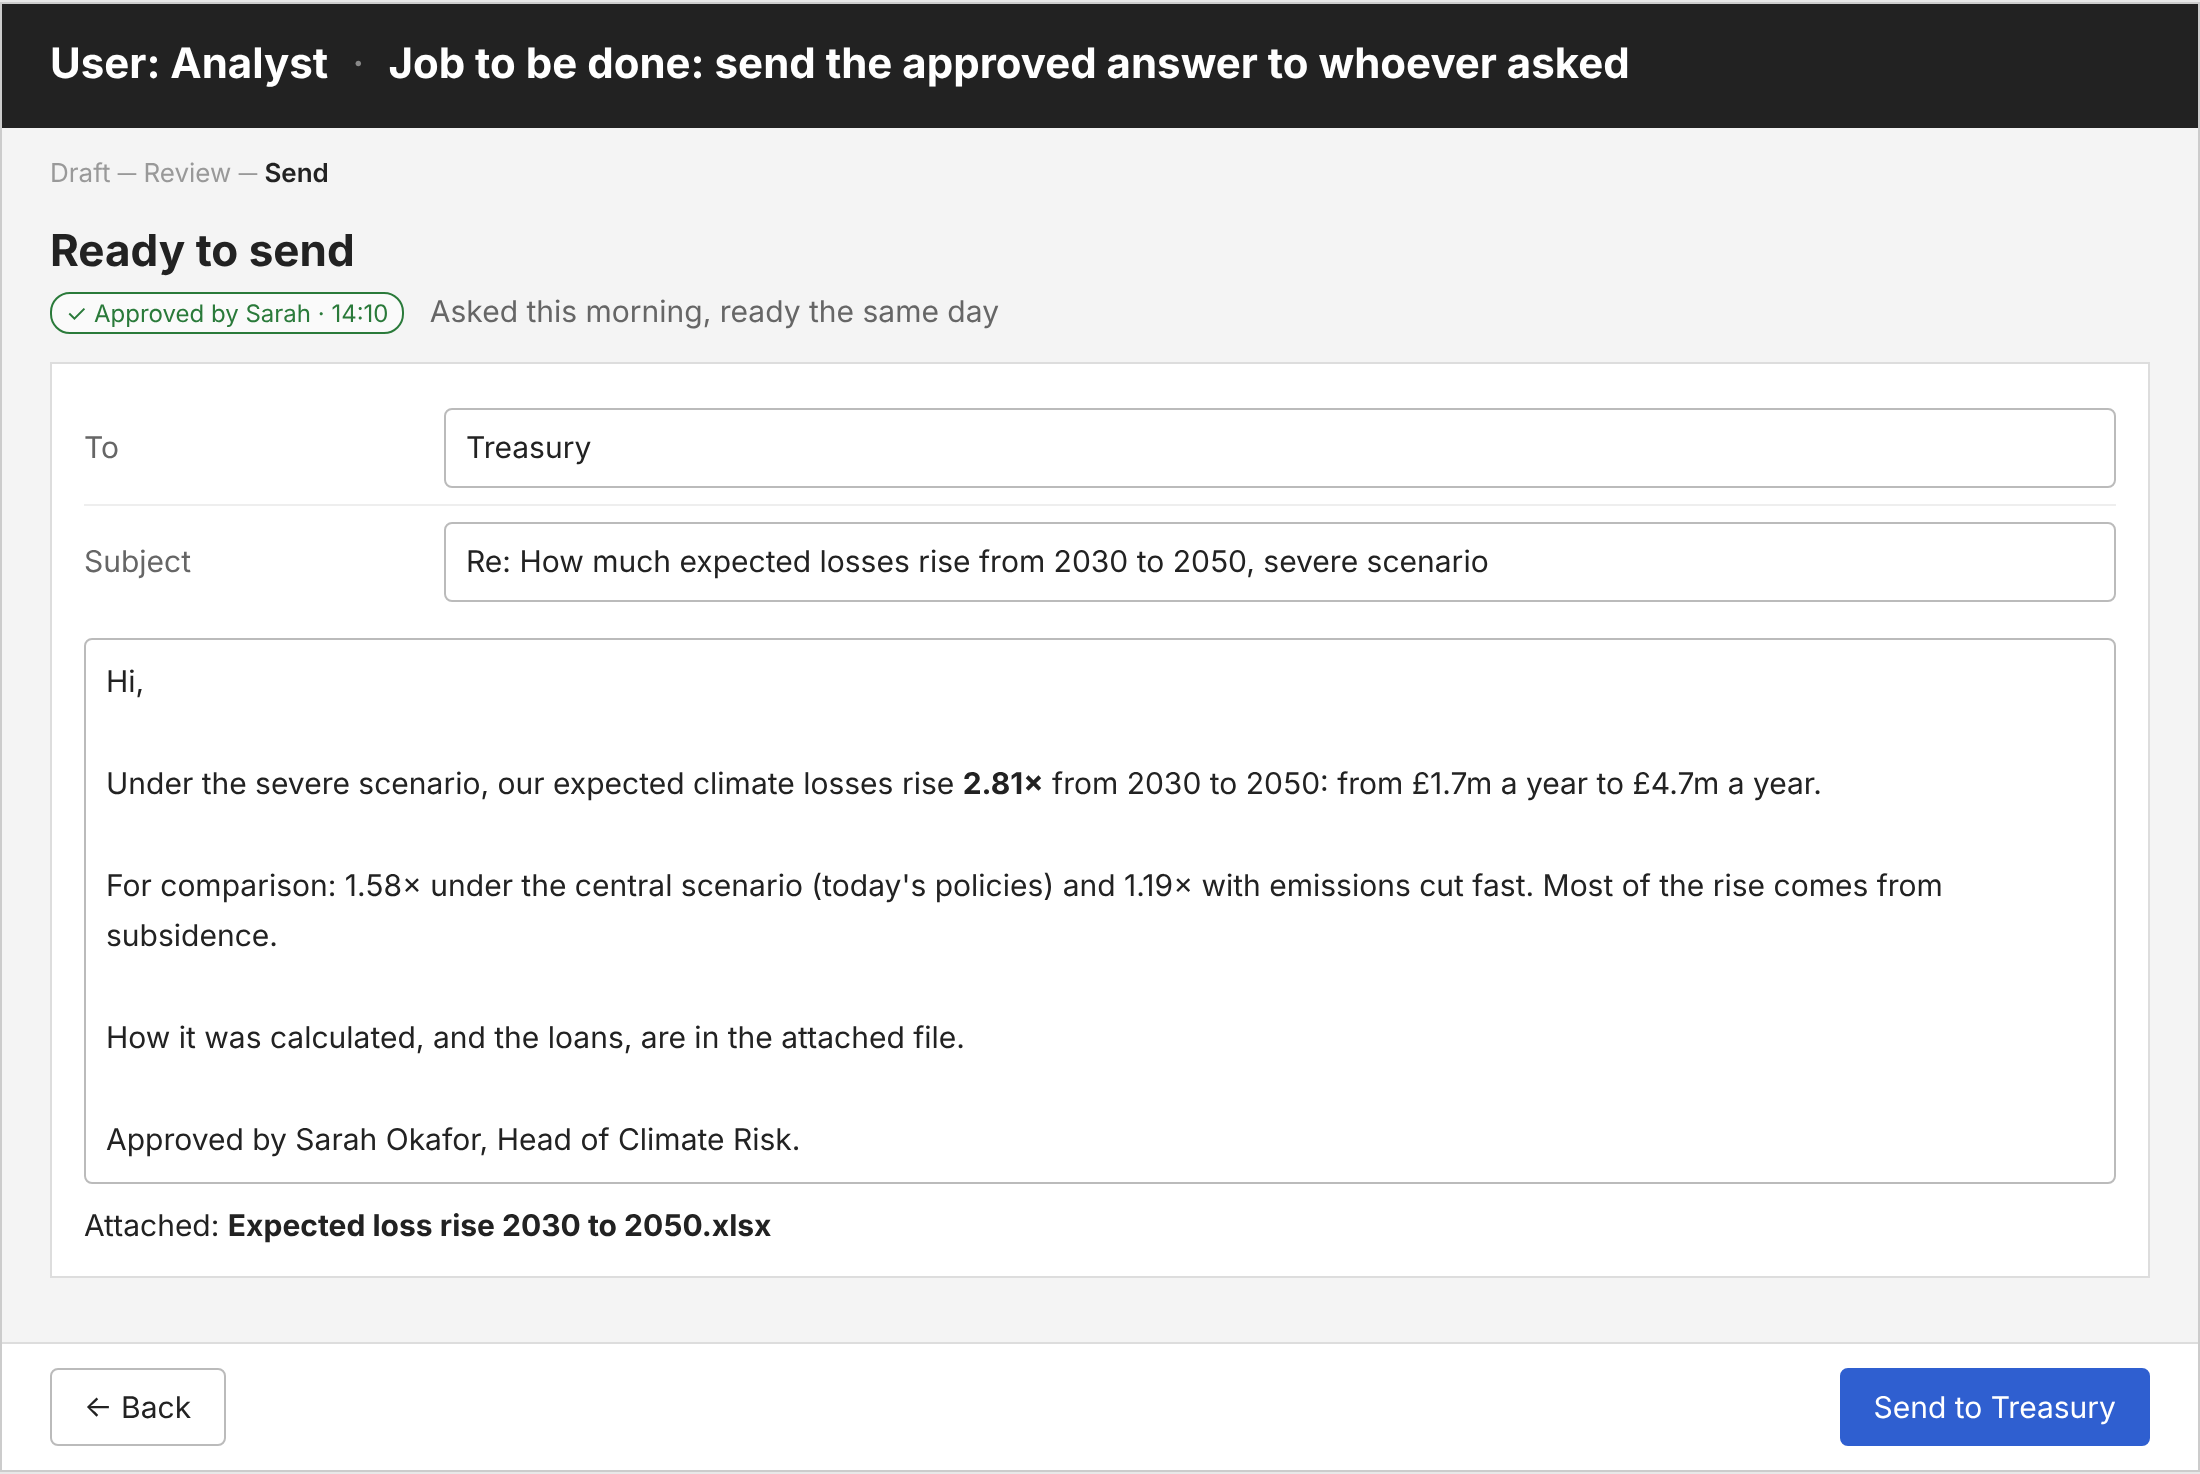
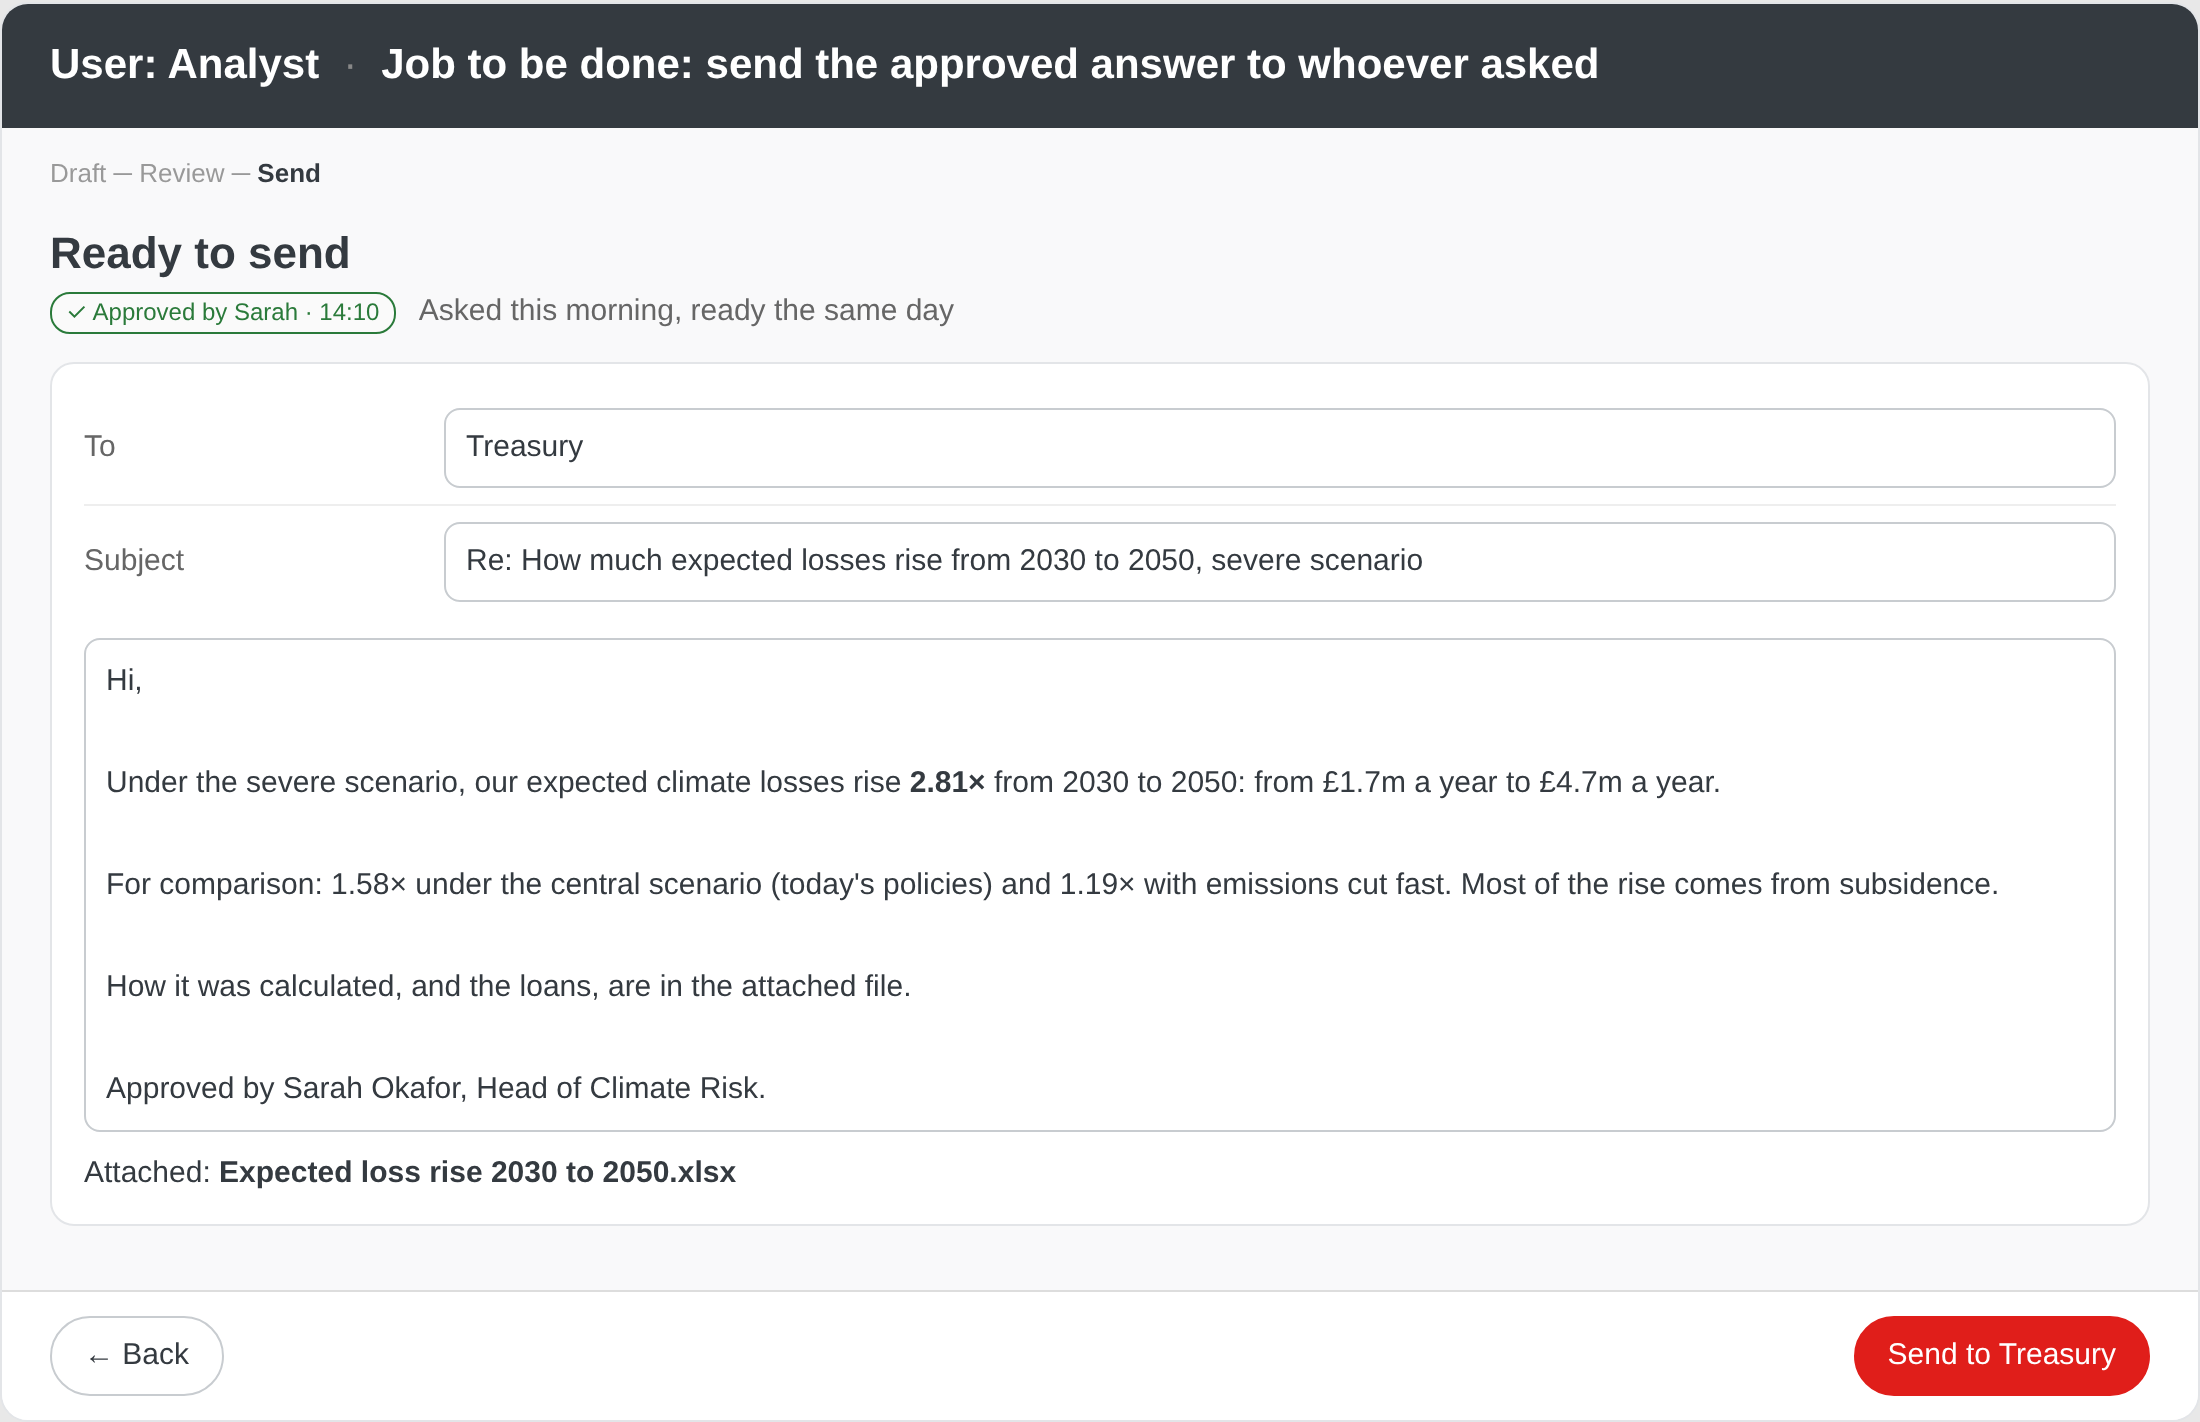
Run 1 screens: Climate X brand; method as a table; clearer links; scenarios explained
Claude-Session: https://claude.ai/code/session_016JoguXTxkWcj5knaYbAtMZ

diff --git a/runs/run-1/design/solution-design.html b/runs/run-1/design/solution-design.html
@@ -46,6 +46,22 @@ th{text-align:left;font-weight:500;color:var(--mid);font-size:13px;padding:6px 0
 .grid2{border-collapse:collapse;margin:0 auto}.grid2 th,.grid2 td{padding:12px 28px;text-align:center;border:1px solid #ddd}.grid2 td b{font-size:30px}.grid2 .s{color:#888;font-size:14px}
 .seg2{display:inline-flex;gap:6px}.seg2 span{padding:6px 14px;border:1px solid #999;border-radius:6px;background:#fff}.seg2 .on{background:var(--acc);color:#fff;border-color:var(--acc)}
 .flag{display:block;margin-top:8px;border-left:4px solid #e01e1a;background:#fdf3f2;padding:6px 10px;font-size:14px}
+
+/* Climate X brand */
+:root{--acc:#343a40;--accbg:#eef0f2;--ink:#343a40}
+body{font-family:Graphik,Helvetica,Arial,sans-serif;color:#343a40}
+.screen{background:#f9f9fa;border:1px solid #e3e5e8;border-radius:14px;overflow:hidden}
+.card{background:#fff;border:1px solid #e3e5e8;border-radius:12px}
+.hdr2{background:#343a40}
+.btn{border-radius:999px;border-color:#c8ccd0}
+.btn.p{background:#e01e1a;border-color:#e01e1a;color:#fff}
+.seg{border-radius:999px;border-color:#c8ccd0}.seg span{border-color:#c8ccd0}.seg .on{background:#343a40;color:#fff}
+.opt{border-radius:10px;background:#fff}.opt.on{border:2px solid #343a40}
+.chip{border-color:#c8ccd0}
+.hl{background:#eef0f2}
+.src{color:#343a40}
+.input{border-color:#c8ccd0;border-radius:8px}
+.kv{width:100%;border-collapse:collapse}.kv td{padding:8px 0;border-top:1px solid #eef0f2;vertical-align:top}.kv td:first-child{color:#6c757d;width:34%}
 </style></head><body>
 
 <div class="screen" id="draft">
@@ -97,11 +113,17 @@ th{text-align:left;font-weight:500;color:var(--mid);font-size:13px;padding:6px 0
  <div class="lbl">Expected loss, all loans · severe scenario</div>
  <div class="kn" style="font-size:52px">2.81× higher by 2050</div>
  <div class="ks" style="margin-top:6px">£1.7m a year in 2030 → £4.7m a year in 2050</div>
- <div class="sub" style="margin-top:12px">Central 1.58× · Low emissions 1.19×</div>
+ <div class="sub" style="margin-top:12px">Other scenarios: central (today's policies) 1.58× · low emissions (cut fast) 1.19×</div>
 </div>
 <div class="cols2">
- <div class="card"><div class="lbl">How it was calculated</div>Severe scenario (very high emissions), 2030 to 2050, all loans. Leaves out loans in default, redeemed since the export or maturing before 2030. Balances held at today's level. Data: Spectra 30 Jun 2026, loan book 30 Sep 2026.
-  <div style="margin-top:10px"><span class="src">See where the rise comes from</span> &nbsp; <span class="src">See the loans</span></div></div>
+ <div class="card"><div class="lbl">How it was calculated</div><table class="kv">
+  <tr><td>Scenario</td><td>Severe: very high emissions</td></tr>
+  <tr><td>Years</td><td>2030 → 2050</td></tr>
+  <tr><td>Loans</td><td>All: mortgages and CRE</td></tr>
+  <tr><td>Leaves out</td><td>Loans in default · redeemed since the export · maturing before 2030</td></tr>
+  <tr><td>Balances</td><td>Held at today's level</td></tr>
+  <tr><td>Data</td><td>Spectra export 30 Jun 2026 · loan book 30 Sep 2026</td></tr></table>
+  <div style="margin-top:12px"><span class="src">Show the rise by hazard</span> &nbsp;·&nbsp; <span class="src">Show the 1,832 loans counted</span></div></div>
  <div class="card"><div class="lbl">Comment (needed to send back)</div><div class="input" style="color:#999;min-height:96px">Add a comment</div></div>
 </div></div>
 <div class="foot"><span class="btn">Send back</span><span class="btn p">Approve</span></div></div>
